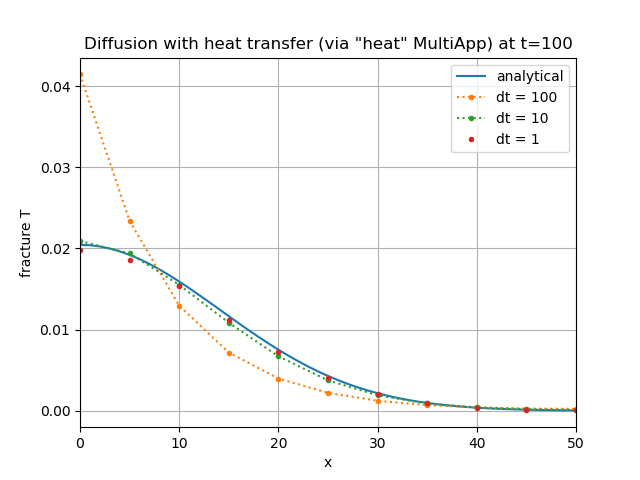
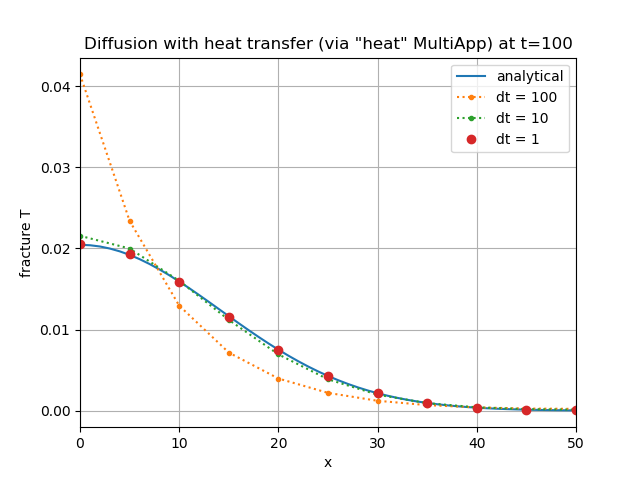
Typos fixed in previous commit

diff --git a/diffusion_multiapp/plot_results.py b/diffusion_multiapp/plot_results.py
@@ -27,7 +27,7 @@ plt.xlim([0, 50])
 plt.xlabel("x")
 plt.ylabel("T")
 plt.savefig("single_var.png")
-plt.show()
+#plt.show()
 plt.close()
 
 # results with heat transfer but not using a MultiApp
@@ -47,7 +47,7 @@ plt.xlim([0, 50])
 plt.xlabel("x")
 plt.ylabel("T")
 plt.savefig("two_vars.png")
-plt.show()
+#plt.show()
 plt.close()
 
 # results with MultiApp using transfer of temperature
@@ -67,7 +67,7 @@ plt.xlim([0, 50])
 plt.xlabel("x")
 plt.ylabel("fracture T")
 plt.savefig("fracture_app.png")
-plt.show()
+#plt.show()
 plt.close()
 
 # results with MultiApp using transfer of heat energy
@@ -79,7 +79,7 @@ plt.plot(data['x'], data['frac_T'], linestyle='dotted', marker='.', label='dt = 
 data = np.genfromtxt(r'gold/fracture_app_heat_final_csv_final_results_0010.csv', delimiter=',', names=True)
 plt.plot(data['x'], data['frac_T'], linestyle='dotted', marker='.', label='dt = 10')
 data = np.genfromtxt(r'gold/fracture_app_heat_final_csv_final_results_0100.csv', delimiter=',', names=True)
-plt.plot(data['x'], data['frac_T'], '.', label='dt = 1')
+plt.plot(data['x'], data['frac_T'], 'o', label='dt = 1')
 plt.grid()
 plt.legend()
 plt.title('Diffusion with heat transfer (via "heat" MultiApp) at t=100')

diff --git a/README.md b/README.md
@@ -1,19 +1,21 @@
 # Fracture flow using a MultiApp approach
 
-A related page [TODO: link] describes how to simulate porous flow in fractured porous media, assuming that the fractures can be incorporated into the mesh as lower dimensional elements, for instance, as 2D "fracture" elements inside a 3D "matrix" mesh.  Unfortunately, realistic fracture networks have such complicated geometry that meshing them is difficult, while incorporating their mesh into a higher-dimensional mesh is almost impossible.  Fortunately, using MOOSE's MultiApp system means the "fracture" mesh may be governed by one App, seperate from the "matrix" mesh, which is governed by another App.  Heat and/or mass is transferred between these Apps.  This page describes these ideas in details.
+A related page [TODO: link] describes how to simulate porous flow in fractured porous media, assuming that the fractures can be incorporated into the mesh as lower dimensional elements, for instance, as 2D "fracture" elements inside a 3D "matrix" mesh.  Unfortunately, realistic fracture networks have such complicated geometry that meshing them is difficult, while incorporating their mesh into a higher-dimensional mesh is almost impossible.  In this page, it is illustrated that MOOSE's MultiApp system may be employed to solve this problem: the "fracture" mesh is governed by one App, which is seperate from the "matrix" mesh that is governed by another App.
 
 ## A MultiApp primer using the diffusion equation
 
 Before considering porous flow in a mixed-dimensional fracture-matrix system, consider the simpler situation involving two coupled diffusion equations in 1D.  Introduce the "temperature" variables, $T_{f}$ and $T_{m}$, which obey
+
 \begin{equation}
 \begin{aligned}
 0 &= \dot{T}_{f} - \nabla^{2}T_{f} + h(T_{f} - T_{m}) \ , \\
 0 &= \dot{T}_{m} - \nabla^{2}T_{m} + h(T_{m} - T_{f}) \ .
 \end{aligned}
 \end{equation}
-In each line, the first two terms are the diffusion equation, while the third is heat transfer between the two systems.  The heat transfer coefficient is denoted by $h$.  In applications, the numerical value of $h$ is usually determined by experiment, or by consulting established empirical relationships, such as summarized on [wikipedia](https://en.wikipedia.org/wiki/Heat_transfer_coefficient).  If $T_{f} > T_{m}$ then the heat-transfer term takes heat energy from the $T_{f}$ system and applies it to the $T_{m}$ system.  It is important that the same numerical value of $h$ is used in both formulae, otherwise heat energy would not be conserved.
 
-Assume the boundary conditions are
+In each line, the first two terms are the diffusion equation, while the third is heat transfer between the two systems.  The heat transfer coefficient is denoted by $h$.  In applications, the numerical value of $h$ is usually determined by experiment, or by consulting established empirical relationships, such those found on [wikipedia](https://en.wikipedia.org/wiki/Heat_transfer_coefficient).  If $T_{f} > T_{m}$ then the heat-transfer term takes heat energy from the $T_{f}$ system and applies it to the $T_{m}$ system.  It is important that the same numerical value of $h$ is used in both formulae, otherwise heat energy would not be conserved.
+
+In this section, assume the boundary conditions are
 \begin{equation}
 T_{f}(x = \pm\infty) = 0 = T_{m}(x = \pm\infty)
 \end{equation}
@@ -24,7 +26,7 @@ T_{f}(t = 0) &= \delta(x) \ , \\
 T_{m}(t = 0) &= 0 \ ,
 \end{aligned}
 \end{equation}
-where $\delta$ is the Dirac delta functions.  These conditions are chosen just because the analytic solution is easy to derive.
+where $\delta$ is the Dirac delta functions.  These conditions make the analytic solution easy to derive.
 
 Physically, this system represents the situation in which the $T_{f}$ system is initially provided with a unit of heat energy at $x=0$, and that heat energy is allowed to disperse under diffusion, and transfer to the $T_{m}$ system, which also disperses it.  To derive the solution, the sum of the two governing equations yields the standard diffusion equation (which may be solved using the [fundamental solution](https://en.wikipedia.org/wiki/Heat_equation)), while the difference yields the diffusion equation augmented with a decay term.  The final result is:
 \begin{equation}
@@ -46,11 +48,11 @@ The result depends on the spatial and temporal discretisation.  The temporal-dis
 
 ### Two coupled variables
 
-When $h\neq 0$, the system is coupled.  A MultiApp approach is not strictly needed in this case, because there are no meshing problems: the domain is just the real line.  Hence, the system may be solved by MOOSE using the following input file
+The system is coupled when $h\neq 0$..  A MultiApp approach is not strictly needed in this case, because there are no meshing problems: the domain is just the real line.  Hence, the system may be solved by MOOSE using the following input file
 
 TODO: listing two_vars.i
 
-The result depends on the spatial and temporal discretisation.  The temporal-discretisation dependence is shown below:
+The result depends on the spatial and temporal discretisation.  The temporal-discretisation dependence is shown below.  Notice that the matrix has removed heat from the fracture, so the temperature is decreased compared with the $h=0$ case.
 
 ![Image](diffusion_multiapp/two_vars.png)
 
@@ -84,9 +86,9 @@ TODO listing fracture_app_heat.i block=Transfers
 
 and the `Kernel` in the matrix App:
 
-TODO listing fracture_app_heat.i start=[fromFrac] end=[]
+TODO listing matrix_app_heat.i start=[fromFrac] end=[]
 
-The results are:
+Notice the `coef = 2`.  The physical motivation of this coefficient is that the fracture is applying a certain quantity of heat to each node (measured by `heat_from_frac`) but during the matrix evolution, the matrix is also gaining heat (at approximately the same rate).  An alternative, which is more accurate, would be to have a [PorousFlowHeatMassTransfer](PorousFlowHeatMassTransfer.md) and a `CoupledForce` Kernel in both input files, but that is not explored here.   The results are:
 
 ![Image](diffusion_multiapp/fracture_app_heat.png)
 
@@ -99,7 +101,7 @@ An alternative approach is to transfer $T_{m}$ and $T_{f}$:
 3. One timestep of the matrix system is solved, holding $T_{f}$ fixed, using [PorousFlowHeatMassTransfer](PorousFlowHeatMassTransfer.md) Kernel to implement the $h(T_{f} - T_{m})$ term (using the same $h$ as the fracture App).
 4. The resulting $T_{m}$ is transferred to the fracture App.
 
-The disadvantage of this approach is that it doesn't conserve heat energy, however, the advantage is XXXX.  This idea is implemented using the following `Kernel` in the fracture App:
+The disadvantage of this approach is that it doesn't conserve heat energy, however, the advantage is that the original differential equations are clearly evident.  Given that the error of using a MultiApp is $\Delta t$ irrespective of the type of Transfer implemented, the non-conservation of heat energy, which is also proportional to $\Delta t$, is probably not of critical importance.  This idea is implemented using the following `Kernel` in the fracture App:
 
 TODO listing fracture_app.i start=[toMatrix] end=[]
 
@@ -114,5 +116,9 @@ TODO listing fracture_app_heat.i start=[toMatrix] end=[]
 The results are:
 
 ![Image](diffusion_multiapp/fracture_app.png)
+
+### Error in each approach
+
+TODO
 
 
